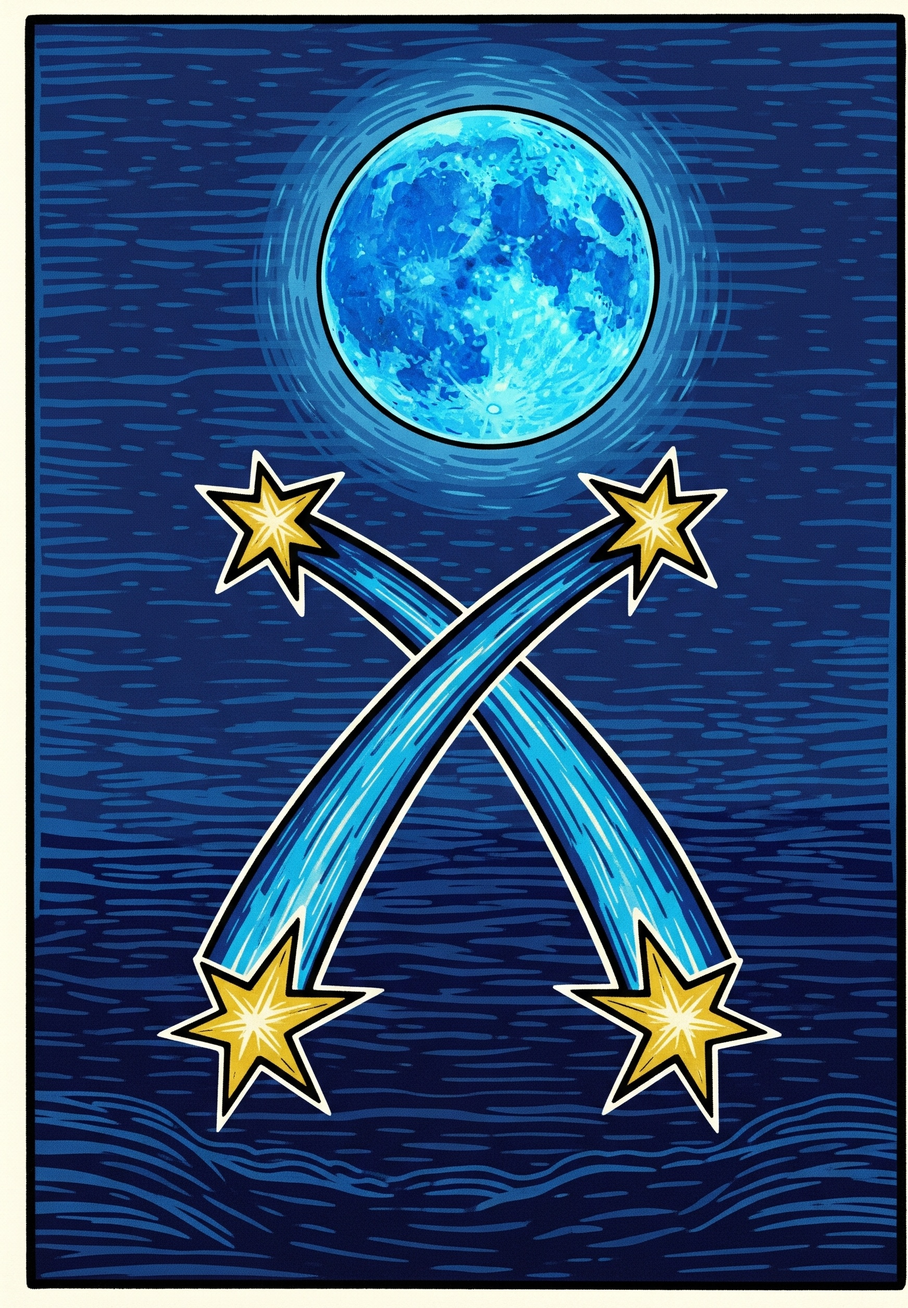
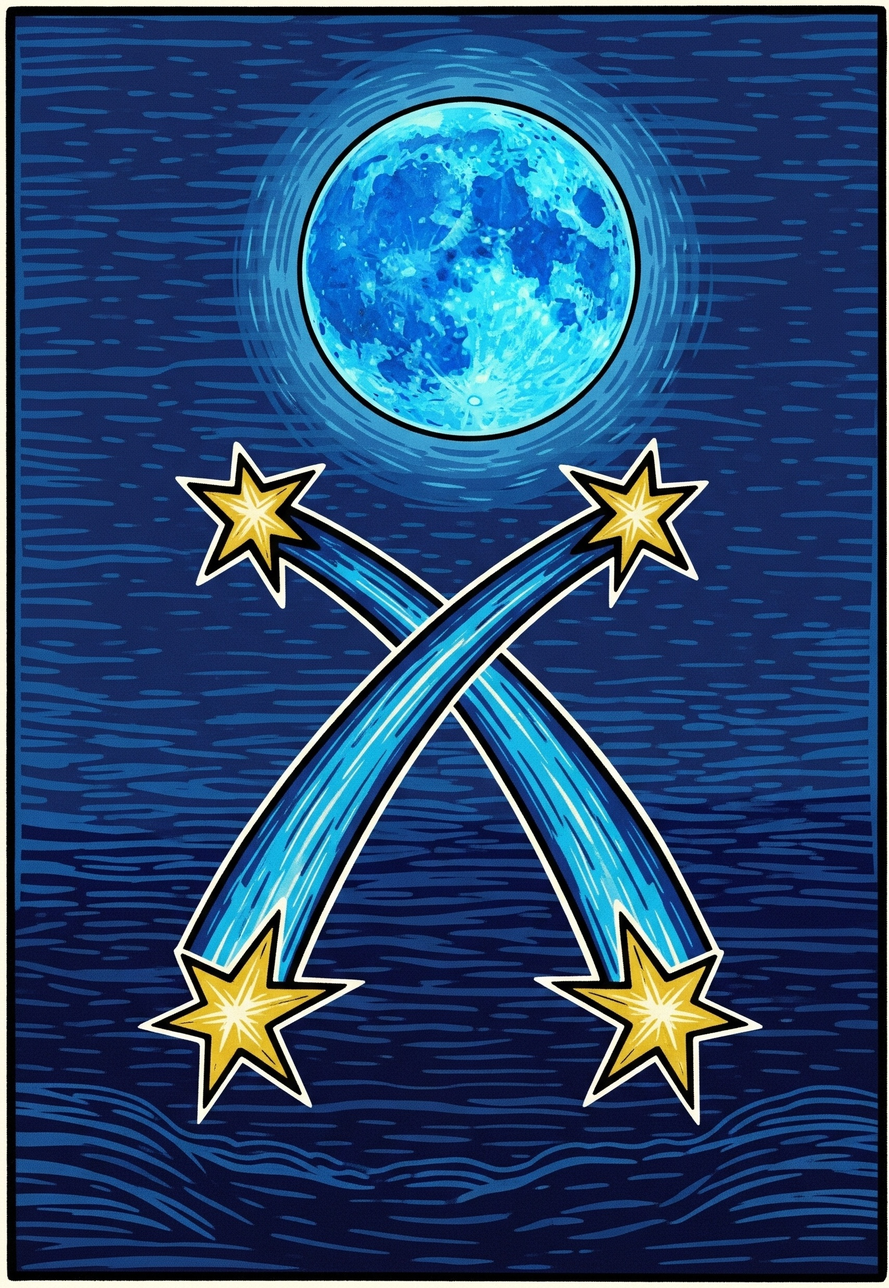
fix: ブルームーンの左側余白を追加トリミング
- 左側37ピクセルの余白を削除
- 上下も微調整（上16px、下23px削除）
- 1743x2511 → 1706x2472にリサイズ

diff --git a/trim_blue_moon_v2.py b/trim_blue_moon_v2.py
@@ -1,0 +1,78 @@
+#!/usr/bin/env python3
+"""
+ブルームーンの画像を再度トリミング（より積極的に）
+"""
+
+from PIL import Image
+import numpy as np
+
+def find_content_bounds(img_array):
+    """
+    画像の実際のコンテンツ境界を見つける
+    """
+    # グレースケールに変換
+    if len(img_array.shape) == 3:
+        gray = np.mean(img_array, axis=2)
+    else:
+        gray = img_array
+    
+    # エッジ検出のための閾値（背景との差）
+    threshold = 30
+    
+    # 各行・列の変化量を計算
+    row_diff = np.max(gray, axis=1) - np.min(gray, axis=1)
+    col_diff = np.max(gray, axis=0) - np.min(gray, axis=0)
+    
+    # コンテンツがある行・列を見つける
+    content_rows = np.where(row_diff > threshold)[0]
+    content_cols = np.where(col_diff > threshold)[0]
+    
+    if len(content_rows) > 0 and len(content_cols) > 0:
+        return (
+            content_cols[0],
+            content_rows[0],
+            content_cols[-1],
+            content_rows[-1]
+        )
+    return None
+
+def trim_blue_moon_aggressive():
+    """
+    blue-moon.jpgを積極的にトリミング
+    """
+    image_path = "/Users/shiraitouma/daniel/line-love-edu/public/images/tarot-cards/blue-moon.jpg"
+    
+    # 画像を開く
+    img = Image.open(image_path)
+    img_array = np.array(img)
+    
+    print(f"現在のサイズ: {img.size}")
+    
+    # コンテンツ境界を見つける
+    bounds = find_content_bounds(img_array)
+    
+    if bounds:
+        left, top, right, bottom = bounds
+        
+        # 少し余裕を持たせる
+        margin = 10
+        left = max(0, left - margin)
+        top = max(0, top - margin)
+        right = min(img.width - 1, right + margin)
+        bottom = min(img.height - 1, bottom + margin)
+        
+        print(f"トリミング範囲: left={left}, top={top}, right={right}, bottom={bottom}")
+        
+        # トリミング
+        cropped = img.crop((left, top, right + 1, bottom + 1))
+        
+        # 保存
+        cropped.save(image_path, 'JPEG', quality=95)
+        
+        print(f"新しいサイズ: {cropped.size}")
+        print(f"削減: 左={left}px, 上={top}px, 右={img.width-right-1}px, 下={img.height-bottom-1}px")
+    else:
+        print("コンテンツ境界が見つかりませんでした")
+
+if __name__ == "__main__":
+    trim_blue_moon_aggressive()

diff --git a/trim_blue_moon.py b/trim_blue_moon.py
@@ -1,0 +1,61 @@
+#!/usr/bin/env python3
+"""
+ブルームーンの画像の左側余白を追加でトリミング
+"""
+
+from PIL import Image
+import os
+
+def trim_blue_moon():
+    """
+    blue-moon.jpgの左側の余白を追加でトリミング
+    """
+    image_path = "/Users/shiraitouma/daniel/line-love-edu/public/images/tarot-cards/blue-moon.jpg"
+    
+    # 画像を開く
+    img = Image.open(image_path)
+    width, height = img.size
+    
+    print(f"現在のサイズ: {width}x{height}")
+    
+    # 画像をRGBに変換
+    if img.mode != 'RGB':
+        img = img.convert('RGB')
+    
+    # 左側の余白を検出（左端から内側に向かってスキャン）
+    pixels = img.load()
+    left_crop = 0
+    
+    # 左端から50ピクセル分をチェック
+    for x in range(50):
+        # 縦方向の中央付近をサンプリング
+        sample_points = [height // 4, height // 2, height * 3 // 4]
+        is_background = True
+        
+        for y in sample_points:
+            pixel = pixels[x, y]
+            # 青い背景色でない場合（コンテンツがある）
+            if pixel[0] > 50 or pixel[1] > 50:  # R,Gチャンネルが高い = 青くない
+                is_background = False
+                break
+        
+        if not is_background:
+            left_crop = max(0, x - 2)  # 2ピクセル余裕を持たせる
+            break
+    
+    print(f"左側から{left_crop}ピクセルをトリミング")
+    
+    # 右側も少しトリミング（バランスを取るため）
+    right_crop = min(left_crop // 2, 20)
+    
+    # トリミング
+    cropped = img.crop((left_crop, 0, width - right_crop, height))
+    
+    # 保存
+    cropped.save(image_path, 'JPEG', quality=95)
+    
+    print(f"新しいサイズ: {cropped.size}")
+    print(f"削減: {left_crop + right_crop}x0 ピクセル")
+
+if __name__ == "__main__":
+    trim_blue_moon()
